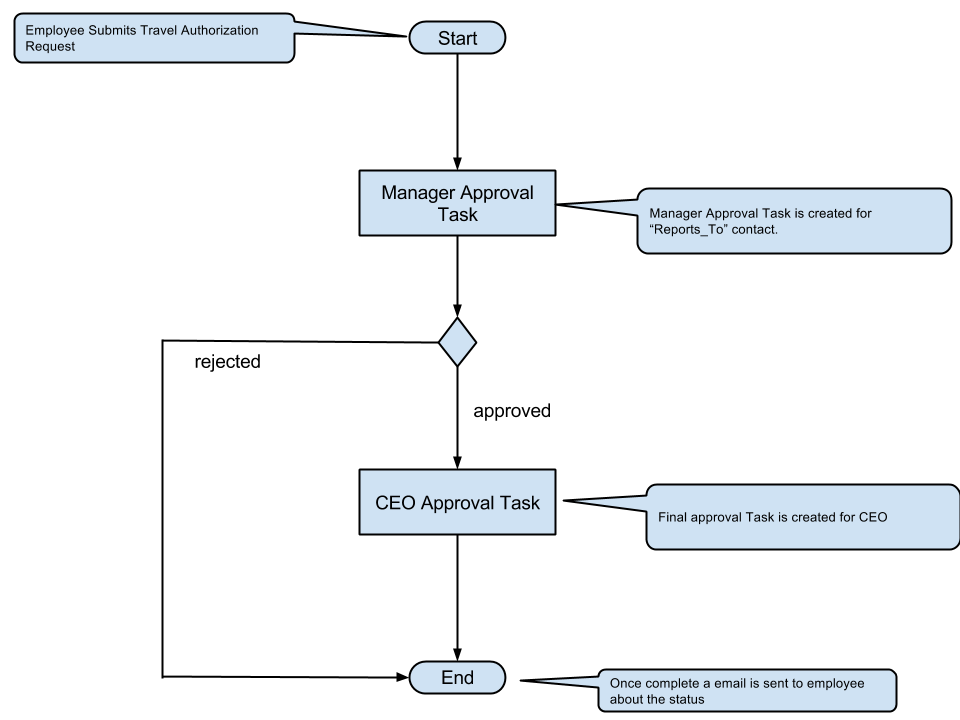
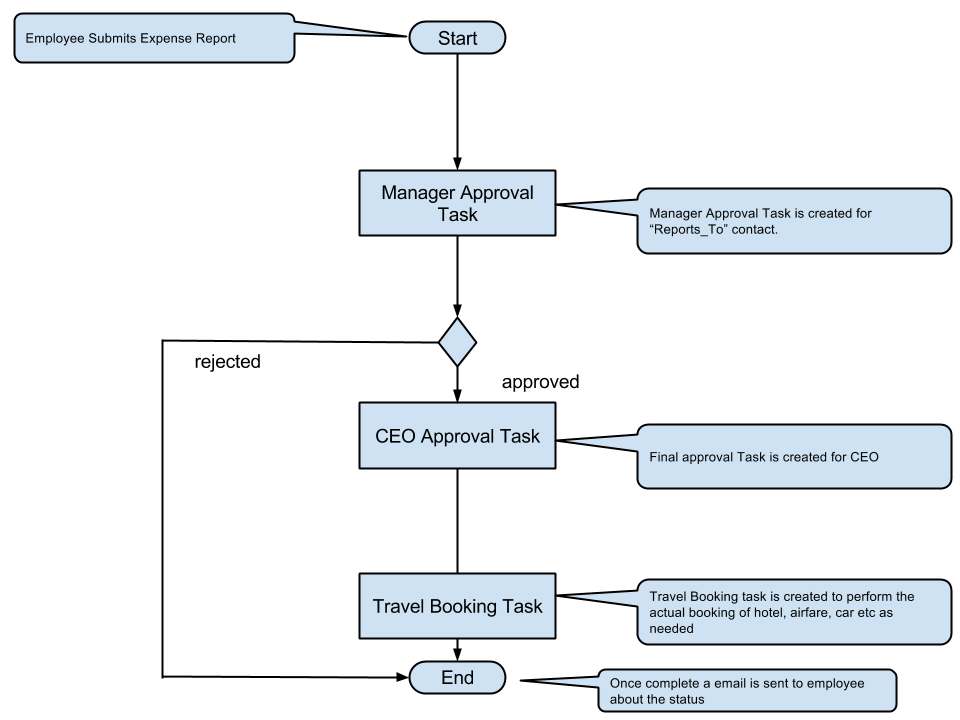
Modified Travel authorization process in office-doc..... And updated AdminResource and EmployeeOnBoardingResources with proper methods

Changed region(s): [[0.375, 0.5194, 1.0, 0.7639], [0.375, 0.7944, 1.0, 0.9167], [0.0312, 0.0306, 0.2812, 0.0917]]

diff --git a/office-master/office-jrs/src/main/java/info/yalamanchili/office/jrs/profile/onboarding/EmployeeOnBoardingResource.java b/office-master/office-jrs/src/main/java/info/yalamanchili/office/jrs/profile/onboarding/EmployeeOnBoardingResource.java
@@ -8,11 +8,17 @@
  */
 package info.yalamanchili.office.jrs.profile.onboarding;
 
+import info.chili.jpa.validation.Validate;
+import info.chili.spring.SpringContext;
 import info.yalamanchili.office.dao.profile.onboarding.EmployeeOnBoardingDao;
+import info.yalamanchili.office.dto.onboarding.InitiateOnBoardingDto;
+import info.yalamanchili.office.dto.onboarding.OnBoardingEmployeeDto;
 import info.yalamanchili.office.entity.profile.onboarding.EmployeeOnBoarding;
+import info.yalamanchili.office.profile.EmployeeService;
 import java.util.List;
 import javax.ws.rs.Consumes;
 import javax.ws.rs.GET;
+import javax.ws.rs.PUT;
 import javax.ws.rs.Path;
 import javax.ws.rs.PathParam;
 import javax.ws.rs.Produces;
@@ -20,7 +26,9 @@ import javax.xml.bind.annotation.XmlElement;
 import javax.xml.bind.annotation.XmlRootElement;
 import javax.xml.bind.annotation.XmlType;
 import org.springframework.beans.factory.annotation.Autowired;
+import org.springframework.cache.annotation.CacheEvict;
 import org.springframework.context.annotation.Scope;
+import org.springframework.security.access.prepost.PreAuthorize;
 import org.springframework.stereotype.Component;
 import org.springframework.transaction.annotation.Transactional;
 
@@ -47,6 +55,25 @@ public class EmployeeOnBoardingResource {
         tableObj.setSize(employeeOnBoardingDao.size());
         return tableObj;
     }
+    @Path("/initiate-onboarding")
+    @PUT
+    @PreAuthorize("hasAnyRole('Role_ROLE_ON_BOARDING_MGR')")
+    @Validate
+    public void initiateOnBoarding(InitiateOnBoardingDto dto) {
+        EmployeeService employeeService = (EmployeeService) SpringContext.getBean("employeeService");
+        employeeService.initiateOnBoarding(dto);
+    }
+
+    @Path("/on-board-employee")
+    @PUT
+    @Produces("application/text")
+    @CacheEvict(value = "employees", allEntries = true)
+    @Validate
+    public String onBoardEmployee(OnBoardingEmployeeDto employee) {
+        EmployeeService employeeService = (EmployeeService) SpringContext.getBean("employeeService");
+        return employeeService.onBoardEmployee(employee);
+    }
+    
 
     @XmlRootElement
     @XmlType

diff --git a/office-master/office-jrs/src/main/java/info/yalamanchili/office/jrs/AdminResource.java b/office-master/office-jrs/src/main/java/info/yalamanchili/office/jrs/AdminResource.java
@@ -126,24 +126,6 @@ public class AdminResource {
         return employeeService.createUser(employee);
     }
 
-    @Path("/initiate-onboarding")
-    @PUT
-    @PreAuthorize("hasAnyRole('Role_ROLE_ON_BOARDING_MGR')")
-    @Validate
-    public void initiateOnBoarding(InitiateOnBoardingDto dto) {
-        EmployeeService employeeService = (EmployeeService) SpringContext.getBean("employeeService");
-        employeeService.initiateOnBoarding(dto);
-    }
-
-    @Path("/on-board-employee")
-    @PUT
-    @Produces("application/text")
-    @CacheEvict(value = "employees", allEntries = true)
-    @Validate
-    public String onBoardEmployee(OnBoardingEmployeeDto employee) {
-        EmployeeService employeeService = (EmployeeService) SpringContext.getBean("employeeService");
-        return employeeService.onBoardEmployee(employee);
-    }
     
 
     @GET

diff --git a/office-web/src/main/java/info/yalamanchili/office/client/onboarding/InitiateOnBoardingPanel.java b/office-web/src/main/java/info/yalamanchili/office/client/onboarding/InitiateOnBoardingPanel.java
@@ -104,6 +104,6 @@ public class InitiateOnBoardingPanel extends CreateComposite {
 
     @Override
     protected String getURI() {
-        return OfficeWelcome.constants.root_url() + "admin/initiate-onboarding";
+        return OfficeWelcome.constants.root_url() + "on-board-employee/initiate-onboarding";
     }
 }

diff --git a/office-master/office-doc/src/site/markdown/office/expense/travelauthorizationprocess.md b/office-master/office-doc/src/site/markdown/office/expense/travelauthorizationprocess.md
@@ -35,4 +35,21 @@ Travel Authorization Process for CEO Process Task
 ![alt text](../../images/expense/ceo-approval-task.png "Travel Authorization")
 Approved Travel Authorization
 ----
+Travel Authorization Process for Booking Manager Process
+----
+- Navigate to Expense --> Travel Authorization--> Search --> view
+- Same as above process for Travel Booking Manager also.
+
+![alt text](../../images/expense/travel-booking-process.png "Travel Authorization")
+----
+Email For Travel Booking Manager
+----
+![alt text](../../images/expense/Email_TravelBookingManagerApproval.png "Travel Authorization")
+----
+Travel Authorization Process for Booking Manager Process Task
+----
+ - Navigate to Home --> MY Tasks --> view
+![alt text](../../images/expense/booking-manager-approval-task.png "Travel Authorization")
+Approved Travel Authorization
+----
 ![alt text](../../images/expense/approved-travel-authorization.png "Travel Authorization")
